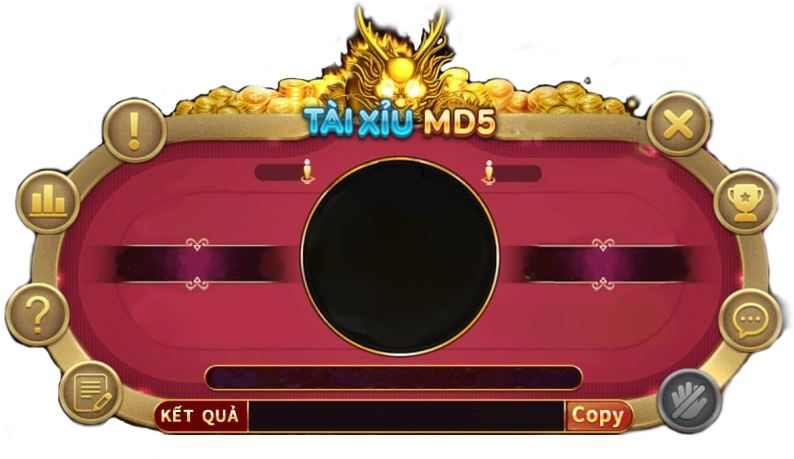
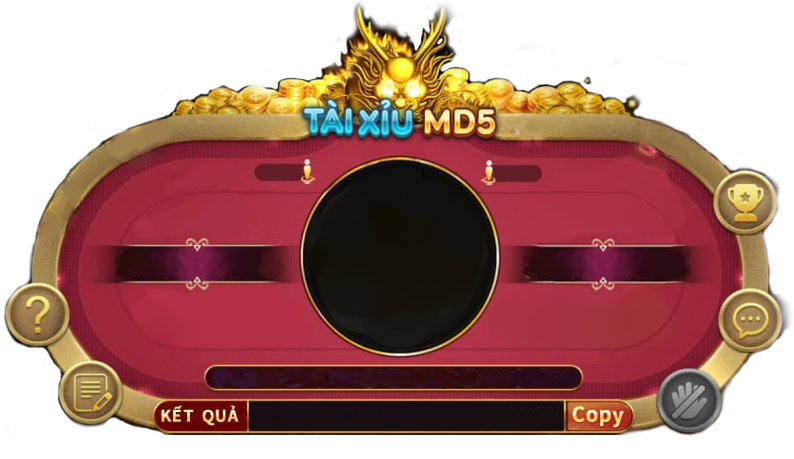
Add btn infor and chart

Changed region(s): [[0.7859, 0.183, 0.9068, 0.366], [0.0, 0.366, 0.1209, 0.5185], [0.1209, 0.2135, 0.2116, 0.366]]

diff --git a/index.html b/index.html
@@ -18,7 +18,7 @@
   <link rel="apple-touch-icon" href="images/favicon.ico">
   <link rel="stylesheet" href="css/bootstrap.min.css">
   <link rel="stylesheet" href="css/slimselect.css">
-  <link rel="stylesheet" href="css/style.css?v=1.84">
+  <link rel="stylesheet" href="css/style.css?v=1.85">
   <link href="https://cdn.jsdelivr.net/npm/sweetalert2@11.14.1/dist/sweetalert2.min.css" rel="stylesheet">
   <link rel="stylesheet" href="https://cdnjs.cloudflare.com/ajax/libs/font-awesome/6.4.2/css/all.min.css" />
 
@@ -28,11 +28,11 @@
   <script src="https://cdnjs.cloudflare.com/ajax/libs/jquery/3.7.1/jquery.min.js"></script>
   <script src="https://code.jquery.com/ui/1.12.1/jquery-ui.min.js"></script>
   <script src="https://cdnjs.cloudflare.com/ajax/libs/sweetalert2/11.14.0/sweetalert2.min.js"></script>
-  <script src="Carrot-Framework-Web/cr_firestore.js?v=1.84"></script>
-  <script src="Carrot-Framework-Web/cr_realtime.js?v=1.84"></script>
-  <script src="Carrot-Framework-Web/Carrot.js?v=1.84"></script>
-  <script src="Carrot-Framework-Web/cr_user.js?v=1.84"></script>
-  <script src="js/web.js?v=1.84"></script>
+  <script src="Carrot-Framework-Web/cr_firestore.js?v=1.85"></script>
+  <script src="Carrot-Framework-Web/cr_realtime.js?v=1.85"></script>
+  <script src="Carrot-Framework-Web/Carrot.js?v=1.85"></script>
+  <script src="Carrot-Framework-Web/cr_user.js?v=1.85"></script>
+  <script src="js/web.js?v=1.85"></script>
   <script type="module">
     import { initializeApp } from "https://www.gstatic.com/firebasejs/10.13.2/firebase-app.js";
     import { getDatabase, ref, set,onValue,child,get,remove} from "https://www.gstatic.com/firebasejs/10.13.2/firebase-database.js";

diff --git a/js/taixiumd5.js b/js/taixiumd5.js
@@ -21,7 +21,7 @@ class TaiXiu_MD5{
 
     money_pending_bet=0;
     money_bet=0;
-    length_history_bet=16;
+    length_history_bet=17;
 
     timeLeft_length=10;
     timeLeft =0;
@@ -80,7 +80,10 @@ class TaiXiu_MD5{
     laodAllEmp(){
         var html_game='<div id="tx">';
         html_game+='<div id="game_tx">';
-            html_game+='<div class="btn"></div>';
+            html_game+='<div class="btn">';
+                html_game+='<img onclick="taixiu.info();" class="info" src="images/btn_info.png"/>';
+                html_game+='<img onclick="taixiu.chart();" class="chart" src="images/btn_chart.png"/>';
+            html_game+='</div>';
             html_game+='<div class="info">';
                 html_game+='<div id="total_user_tai" class="txt_user tai">0</div>';
                 html_game+='<img id="txt_tai" class="txt tai" src="images/txt_tai.png"/>';
@@ -524,6 +527,10 @@ class TaiXiu_MD5{
 
     close_chat(){
         if(taixiu.box_chat!=null) $(taixiu.box_chat).remove();
+    }
+
+    info(){
+        alert("Infor");
     }
 }
 

diff --git a/css/style.css b/css/style.css
@@ -3526,7 +3526,7 @@ button:disabled {
 }
 
 #tx #game_tx{
-  background-image: url('../images/tx_bk.png?v=12');
+  background-image: url('../images/tx_bk.png?v=13');
   background-repeat: no-repeat;
   background-size: 100% 100%;
   width: 794px;
@@ -3630,6 +3630,27 @@ button:disabled {
 
 #game_tx .btn .chat:hover{
   content: url('../images/btn_chat_hover.png');
+}
+
+#game_tx .btn .info{
+  width: 66px;
+  position: relative;
+  top: -59px;
+  left: 59px;
+}
+
+#game_tx .btn .info:hover{
+  content: url('../images/btn_info_hover.png');
+}
+
+#game_tx .btn .chart{
+  position: relative;
+  top: -52px;
+  left: -14px;
+}
+
+#game_tx .btn .chart:hover{
+  content: url('../images/btn_chart_hover.png');
 }
 
 .sprite_dice{
